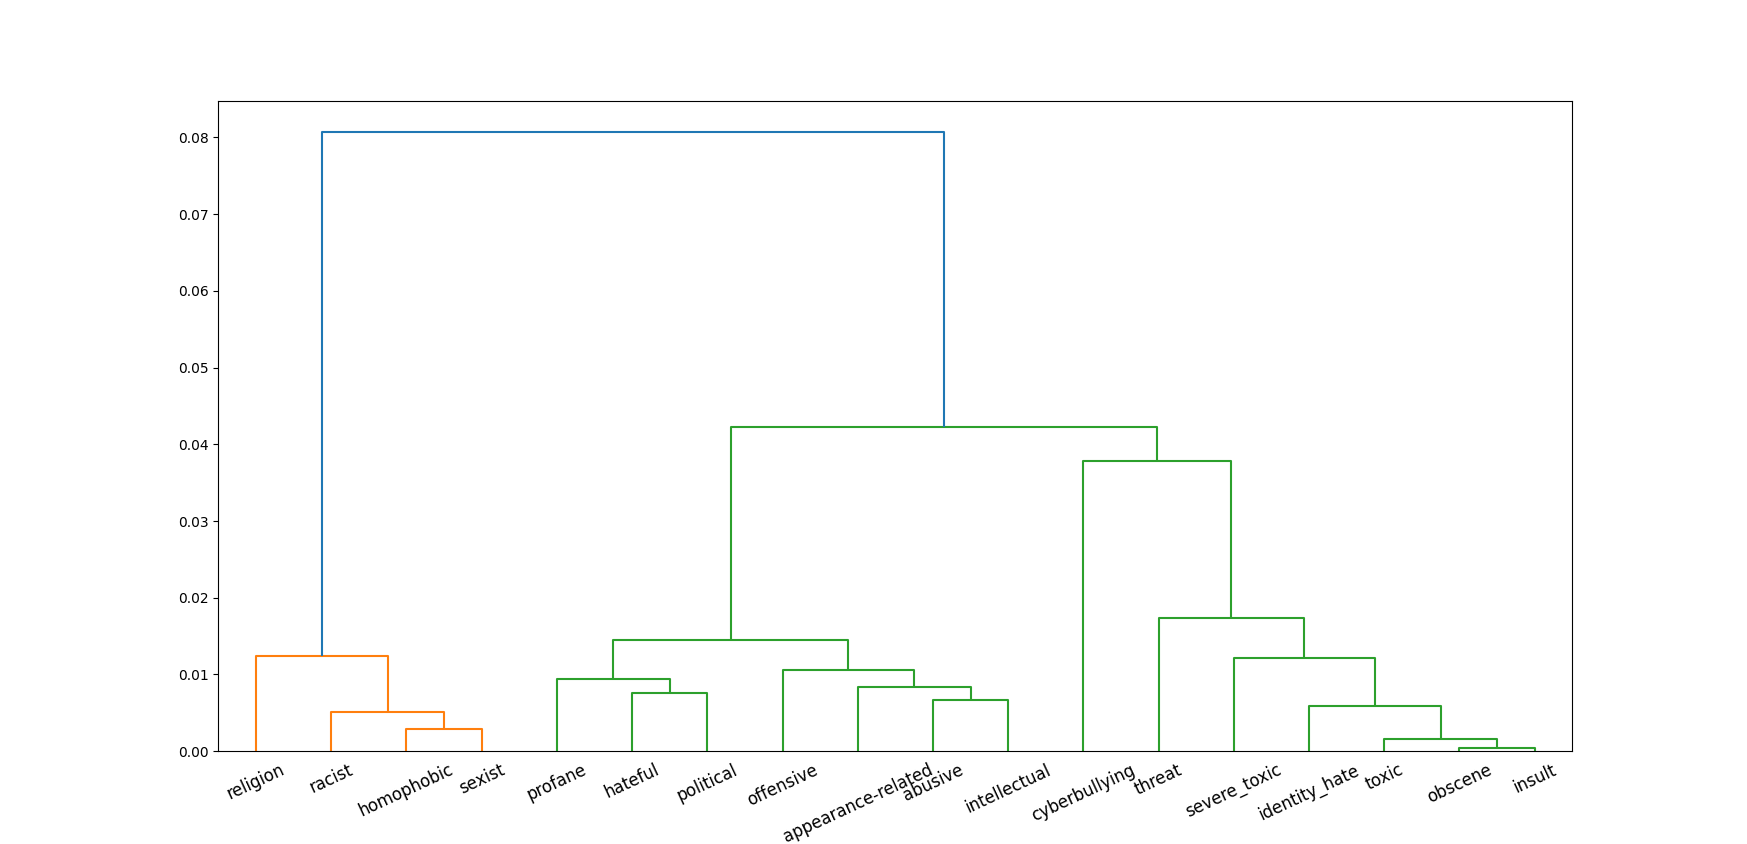
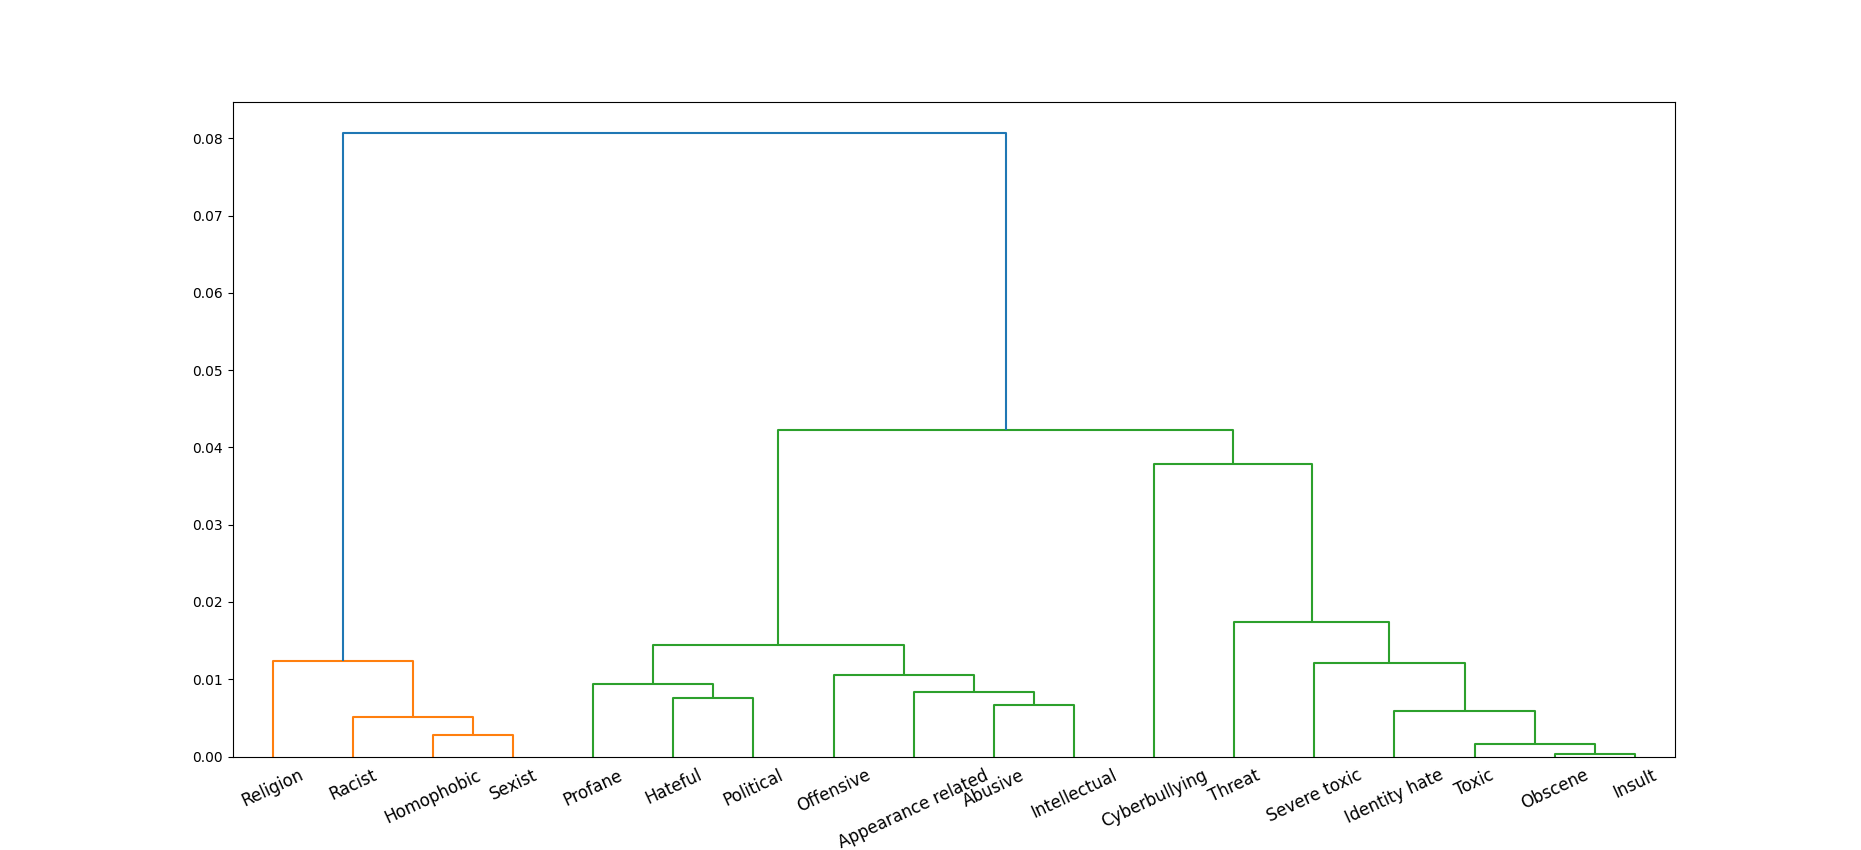
bert adjustments

diff --git a/bert.py b/bert.py
@@ -9,6 +9,7 @@ import numpy as np
 
 from bert_vectors import mean, sent, mean2, mean3
 from speech_classes import SPEECH_CLASSES
+from dense_plotting import format_label
 
 
 def bert_to_vec(text, model, tokenizer, class_word=None):
@@ -226,7 +227,8 @@ def visualize_dendrogram(mean_):
 
     Z = linkage(dists, 'average')
     fig = plt.figure(figsize=(15, 8))
-    dn = dendrogram(Z, labels=labels, leaf_rotation=25)
+    labels_formatted = [format_label(label) for label in labels]
+    dn = dendrogram(Z, labels=labels_formatted, leaf_rotation=25)
     plt.show()
 
 
@@ -236,15 +238,19 @@ def calculate_bert_vectors(tables, chosen_class, added_sent=False, only_class_wo
     class_mean, sentence = get_class_mean_and_sentence(model, tokenizer, texts, chosen_class, only_class_word=only_class_word)
     print(sentence)
     print(class_mean)
+    return class_mean
 
 if __name__ == '__main__':
 
     # mean and sentences saved in bert_vectors.py
-    # tables = ["jigsaw-toxic.csv"]
-    # choose_class = 24
-    # calculate_bert_vectors(tables, choose_class, added_sent=True, only_class_word=True)
+    # tables = ['9.csv', '21.csv', '25.csv', '26.csv', '31.csv', '32.csv', 'jigsaw-toxic.csv']
+    # choosen_class = [1, 2, 3, 5, 6, 7, 10, 11, 13, 14, 16, 17, 18, 19, 20, 22, 23, 24]
+    # calc_mean = [[0] for _ in range(25)]
+    # for c in choosen_class:
+    #     calc_mean = calculate_bert_vectors(tables, c, added_sent=True, only_class_word=True)
+    #     calc_mean[c] = calc_mean
 
-    visualize_dendrogram(mean3)
+    visualize_dendrogram(mean)
 
 
 
